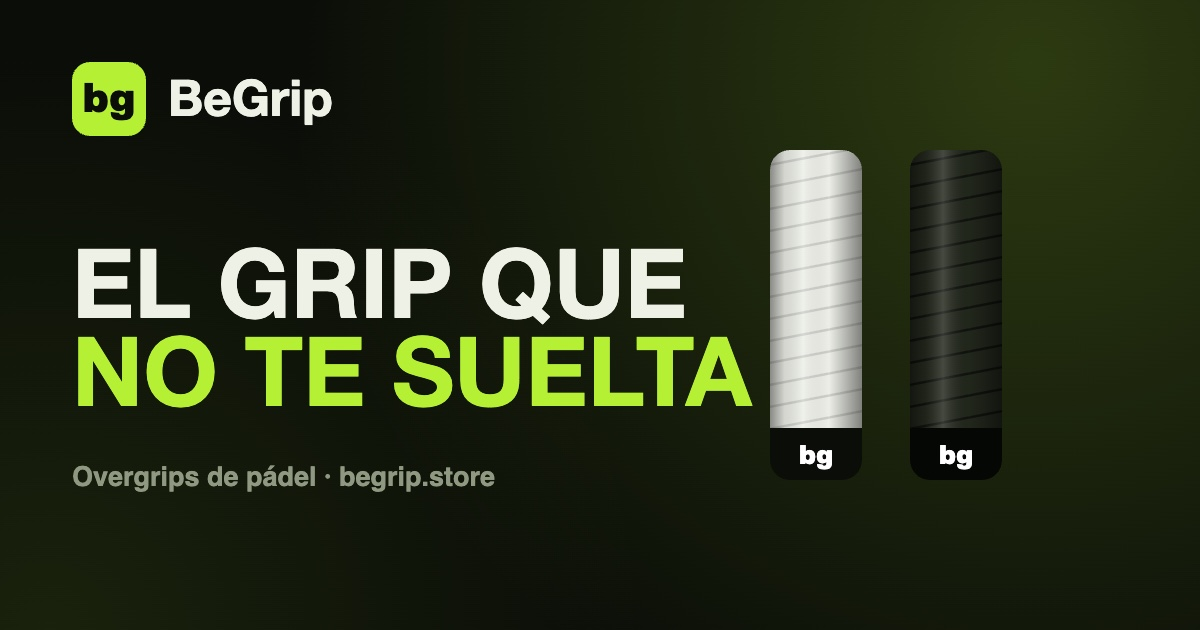
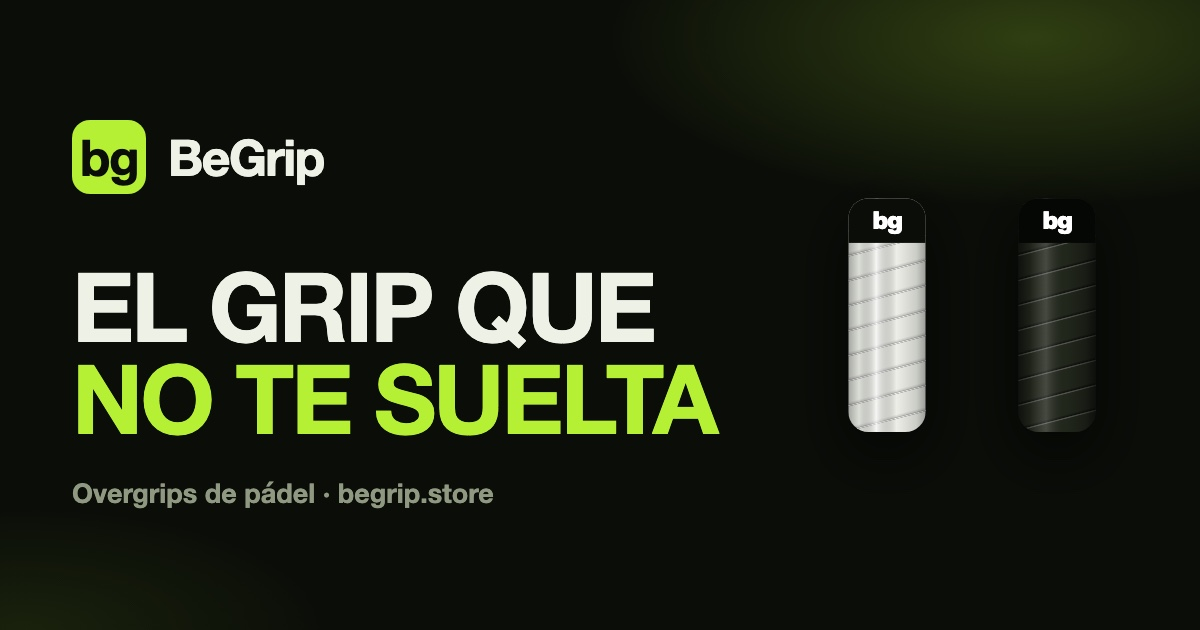
Corregir posicion de la cinta de acabado: va arriba del grip, no abajo

Changed region(s): [[0.0617, 0.2111, 1.0, 0.754], [0.0617, 0.0905, 0.2775, 0.3317], [0.0617, 0.7238, 0.4317, 0.8143]]

diff --git a/index.html b/index.html
@@ -251,10 +251,10 @@
               <rect x="22" y="10" width="76" height="230" fill="#eceee7"/>
               <rect x="22" y="10" width="76" height="230" fill="url(#wrapW)"/>
               <rect x="22" y="10" width="76" height="230" fill="url(#cylW)"/>
-              <rect x="22" y="196" width="76" height="44" fill="#0a0d08"/>
-              <rect x="22" y="196" width="76" height="44" fill="url(#cylW)" opacity=".55"/>
+              <rect x="22" y="10" width="76" height="44" fill="#0a0d08"/>
+              <rect x="22" y="10" width="76" height="44" fill="url(#cylW)" opacity=".55"/>
             </g>
-            <text x="60" y="226" text-anchor="middle" font-family="Arial Black,Arial" font-weight="800" font-size="24" letter-spacing="-1.5" fill="#ffffff">bg</text>
+            <text x="60" y="40" text-anchor="middle" font-family="Arial Black,Arial" font-weight="800" font-size="24" letter-spacing="-1.5" fill="#ffffff">bg</text>
             <rect x="22" y="10" width="76" height="230" rx="20" fill="none" stroke="#000" stroke-opacity=".25"/>
           </svg>
           <figcaption>Blanco</figcaption>
@@ -284,9 +284,9 @@
               <rect x="22" y="10" width="76" height="230" fill="#22271c"/>
               <rect x="22" y="10" width="76" height="230" fill="url(#wrapK)"/>
               <rect x="22" y="10" width="76" height="230" fill="url(#cylK)"/>
-              <rect x="22" y="196" width="76" height="44" fill="#050704"/>
+              <rect x="22" y="10" width="76" height="44" fill="#050704"/>
             </g>
-            <text x="60" y="226" text-anchor="middle" font-family="Arial Black,Arial" font-weight="800" font-size="24" letter-spacing="-1.5" fill="#ffffff">bg</text>
+            <text x="60" y="40" text-anchor="middle" font-family="Arial Black,Arial" font-weight="800" font-size="24" letter-spacing="-1.5" fill="#ffffff">bg</text>
             <rect x="22" y="10" width="76" height="230" rx="20" fill="none" stroke="#000" stroke-opacity=".45"/>
           </svg>
           <figcaption>Negro</figcaption>
